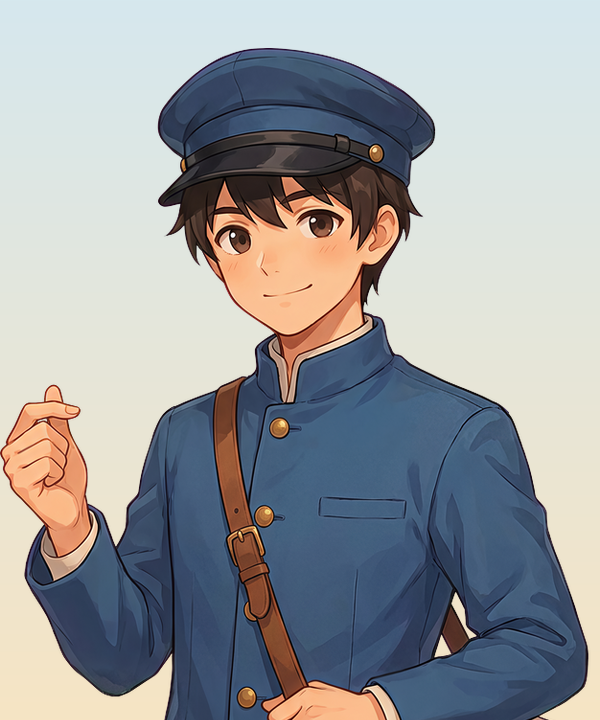
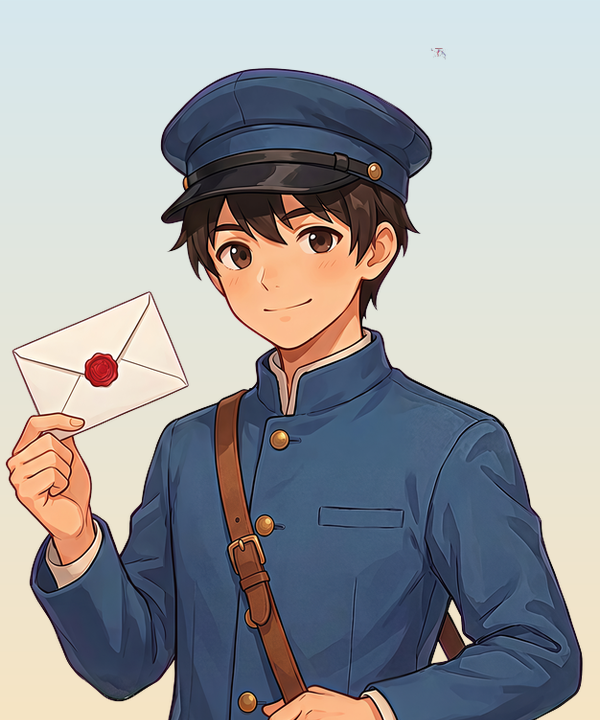
Day portraits: postman holds a letter (take 3, user pick)

diff --git a/tools/build_day_portraits.py b/tools/build_day_portraits.py
@@ -26,7 +26,7 @@ sys.path.insert(0, str(ROOT / "tools"))
 import build_standees  # noqa: E402
 from build_brand_art import raw_dir  # noqa: E402
 
-PICKS = {"postman": 1, "fisher": 1, "farmer": 1, "sweeper": 1, "gentleman": 1, "stargazer": 1, "lamplighter": 1,
+PICKS = {"postman": 3, "fisher": 1, "farmer": 1, "sweeper": 1, "gentleman": 1, "stargazer": 1, "lamplighter": 1,
          "gardener": 1, "scout": 1, "regular": 1, "miller": 1, "shopkeeper": 1, "kid": 1, "stroller": 1, "poet": 1}
 UI = ROOT / "game" / "assets" / "ui"
 CARD = (600, 720)
